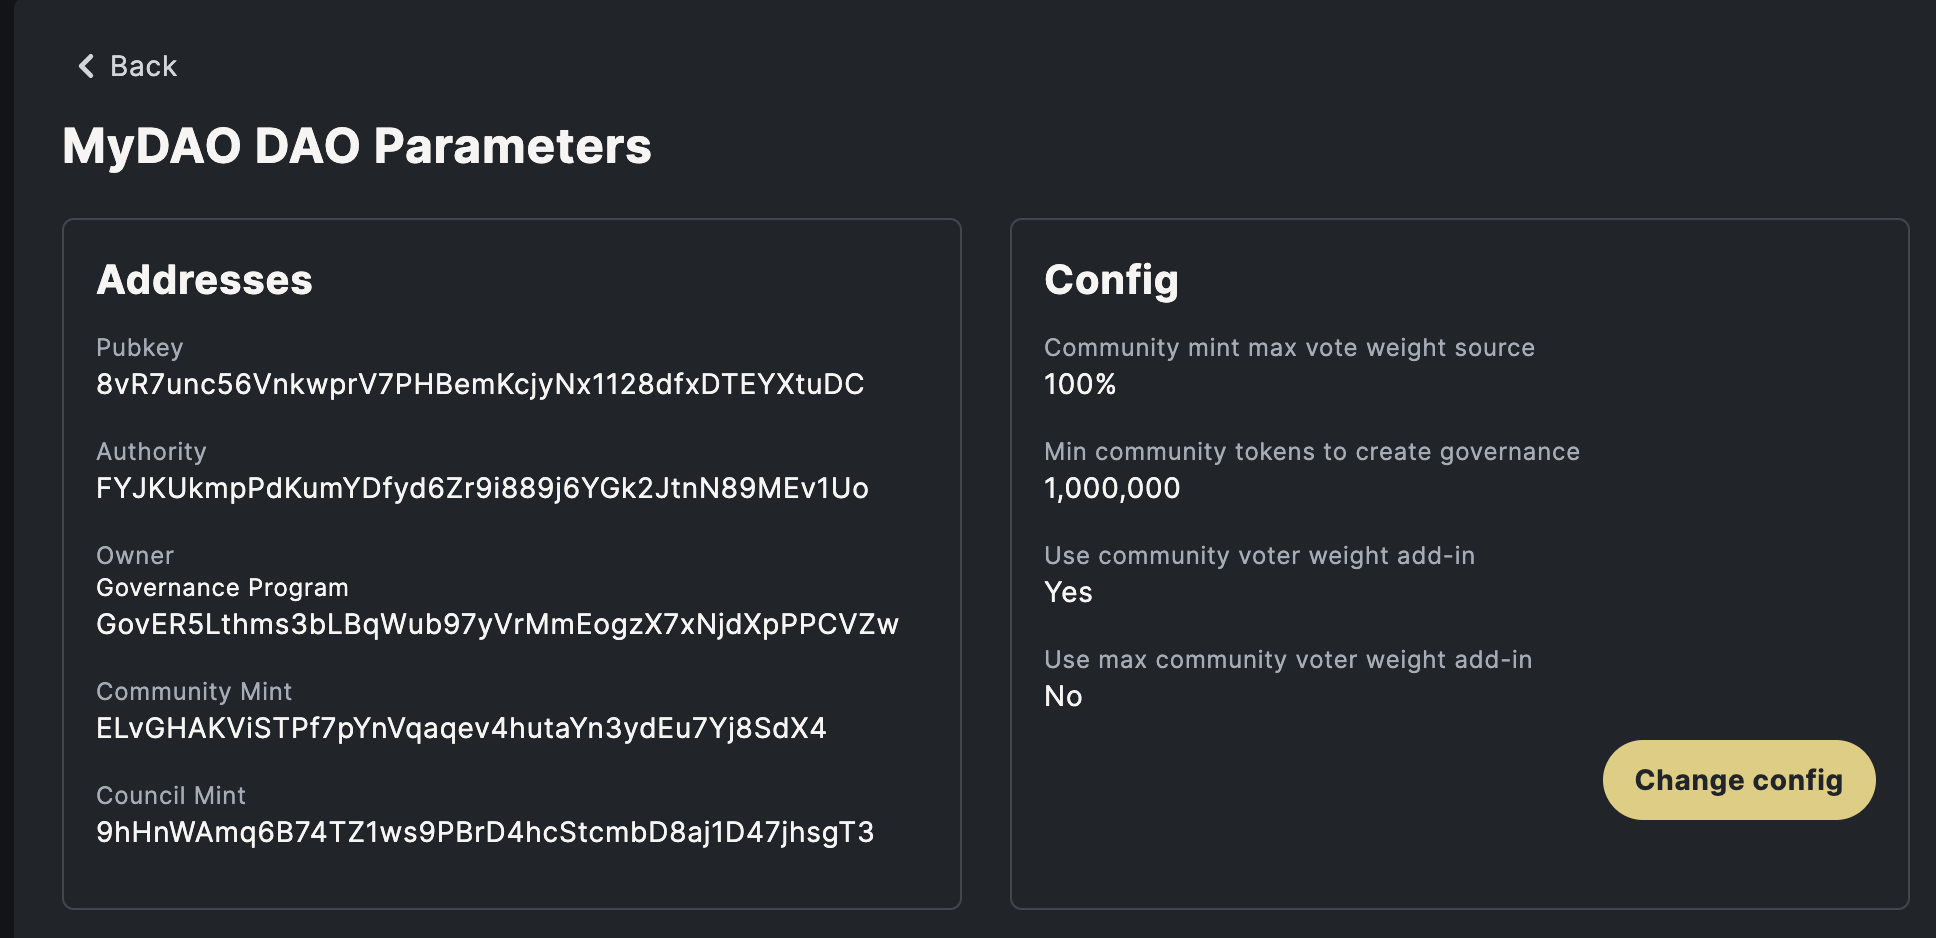
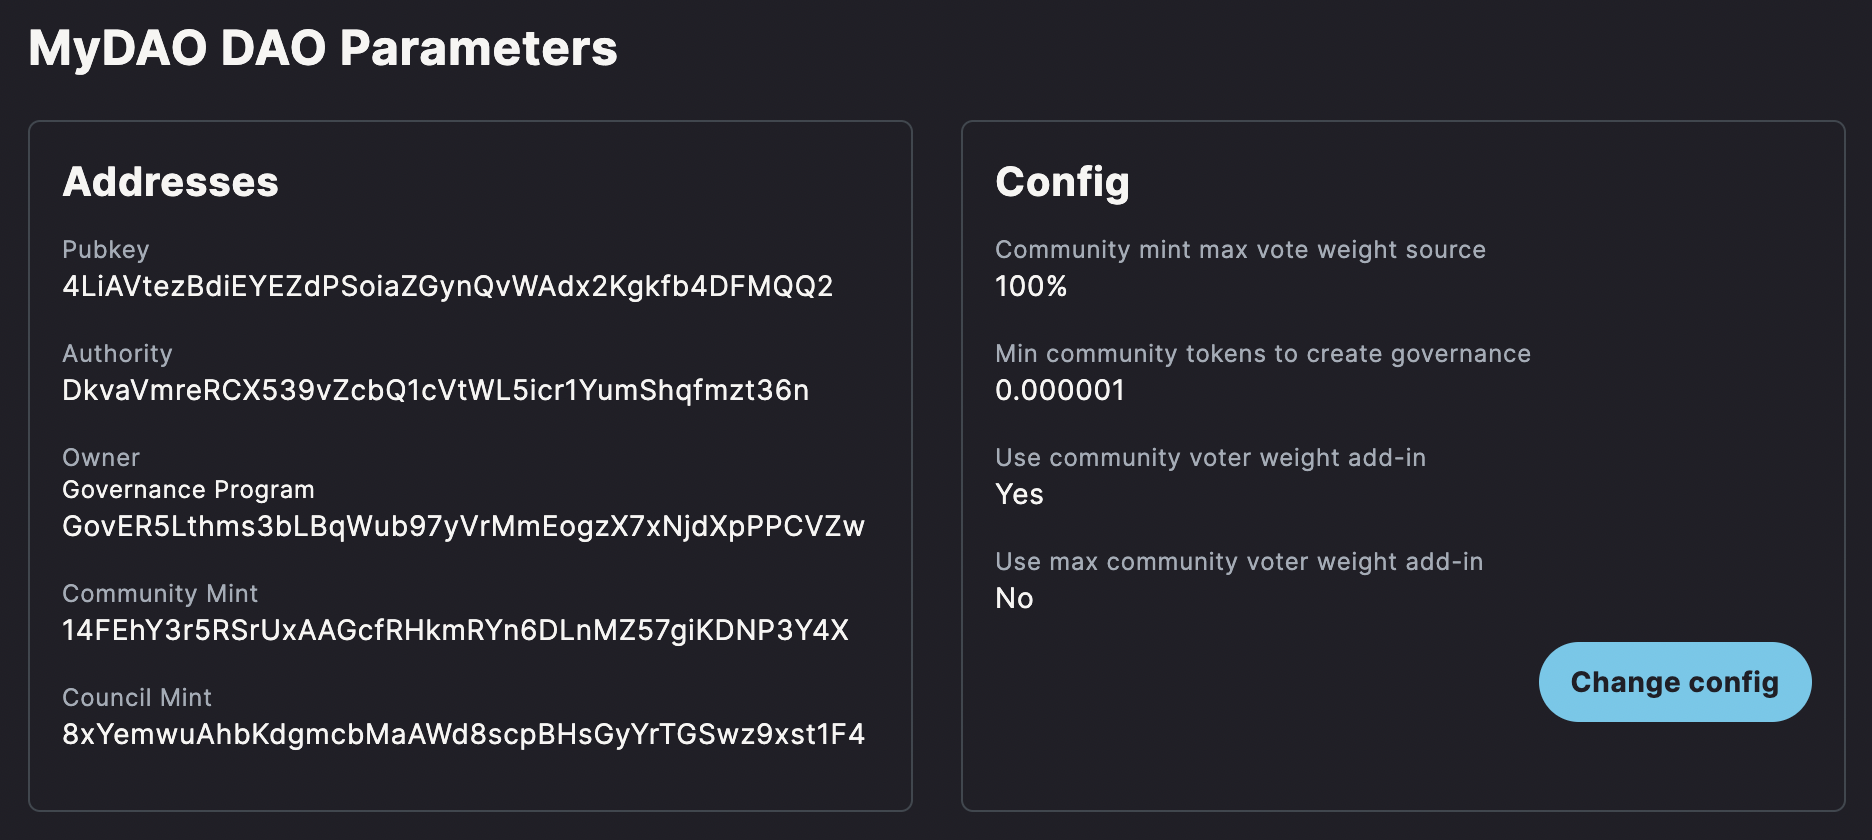
Update gated dao docs for new UI (#46)

diff --git a/docs/DAO-Management/creating-DAOs/gated-DAO.md b/docs/DAO-Management/creating-DAOs/gated-DAO.md
@@ -23,29 +23,23 @@ to verify and tokenize aspects of their members' real-world identity.
 
 In order to enable the Civic Pass plugin, use the following steps:
 
-:::danger Security
-As of 14/05/2022 the Civic Gateway program is not yet security-audited. Use at your own risk.
-:::
-
 ## Create DAO
 
-Create a DAO as usual with Realms. Both [Bespoke](bespoke-DAO.md) and [Multisig](multisig-DAO.md) DAO types are supported. 
+Create a Community Token DAO in Realms. 
 
-:::tip
-The current version of the Civic Pass plugin does not support composition of plugins. This feature is expected in
-June/July 2022. Until then, gated DAOs require the `Min community tokens to create proposal` property to be
-set to 1.
-:::
+![create-dao](/img/Gateway-DAO/create-dao.png)
 
 :::danger
-The spl-governance program version must be equal or higher than v2.2.4 for the Civic Pass plugin to work correctly.
+The spl-governance program version must be equal or higher than v2.2.6 for the Civic Pass plugin to work correctly.
 If the plugin is enabled for older versions it can result in irreversible deadlock of the DAO.
 :::
 
-**`Council`** - Setup a DAO with a council.
+:::tip
+Set up the DAO with a council token.
 
 The Civic Pass plugin does not affect the council.
 Setting a council allows the configuration of a DAO without requiring the council members to first obtain passes.
+:::
 
 ## Configure Civic Pass Plugin
 
@@ -65,7 +59,6 @@ If you are interested in using more than one Civic Pass type at once, contact [c
 or visit the [Discord](https://discord.gg/8H5Kdtr5Wn).
 :::
 
-
 ## Enable Civic Pass Plugin
 
 Once the Civic Pass plugin configuration proposal is voted on and executed, the DAO can enable it
@@ -76,9 +69,17 @@ From the DAO parameters page, select `Change Config` option
 ![DAO-config-change](/img/Gateway-DAO/DAO-config-change.png)
 
 and set the **`Community voter weight addin`** parameter to 
-the Civic Pass Gateway Program Id `Ggatr3wgDLySEwA2qEjt1oiw4BUzp5yMLJyz21919dq6`
+the Civic Pass Gateway Program Id `GgathUhdrCWRHowoRKACjgWhYHfxCEdBi5ViqYN6HVxk`
 
 ![enable-gateway-plugin](/img/Gateway-DAO/enable-gateway-plugin.png)
+
+:::tip
+If you want DAO community members to be able to create proposals, as well as vote on them,
+while still on the DAO parameters page, select 'Change Config' on the *Governances* section,
+and check the "Enabled" toggle beneath "Min community tokens to create proposal".
+
+![enable-create-proposal](/img/Gateway-DAO/enable-create-proposal.png)
+:::
 
 ## Obtaining a Civic Pass
 
@@ -91,3 +92,9 @@ The button shows the status of the current pass. A status of "Active" indicates 
 and they can interact with the DAO.
 
 Clicking the button opens an iFrame, which guides the user through the process of obtaining a Civic Pass.
+
+:::tip
+The Civic Pass plugin supports composition with other plugins. However, the Realms UI does not yet expose this feature.
+If you are interested in using the Civic Pass plugin with an NFT Community DAO, please [contact Civic](https://www.civic.com/contact-us/)
+or visit the [Discord](https://discord.gg/8H5Kdtr5Wn).
+:::
